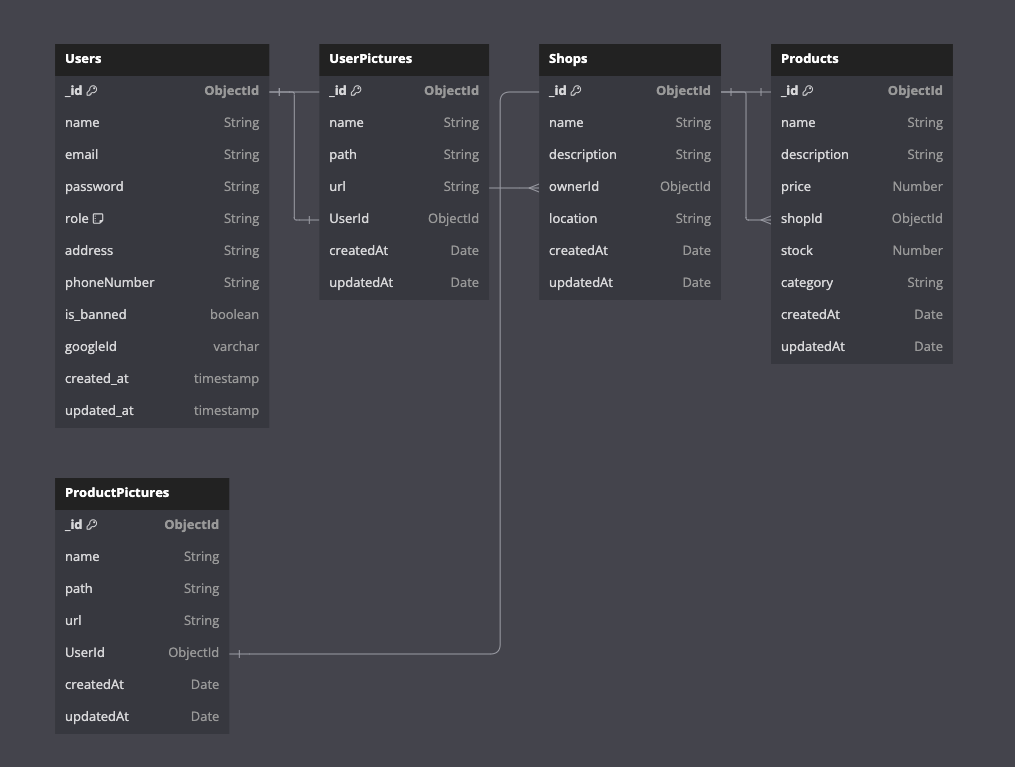
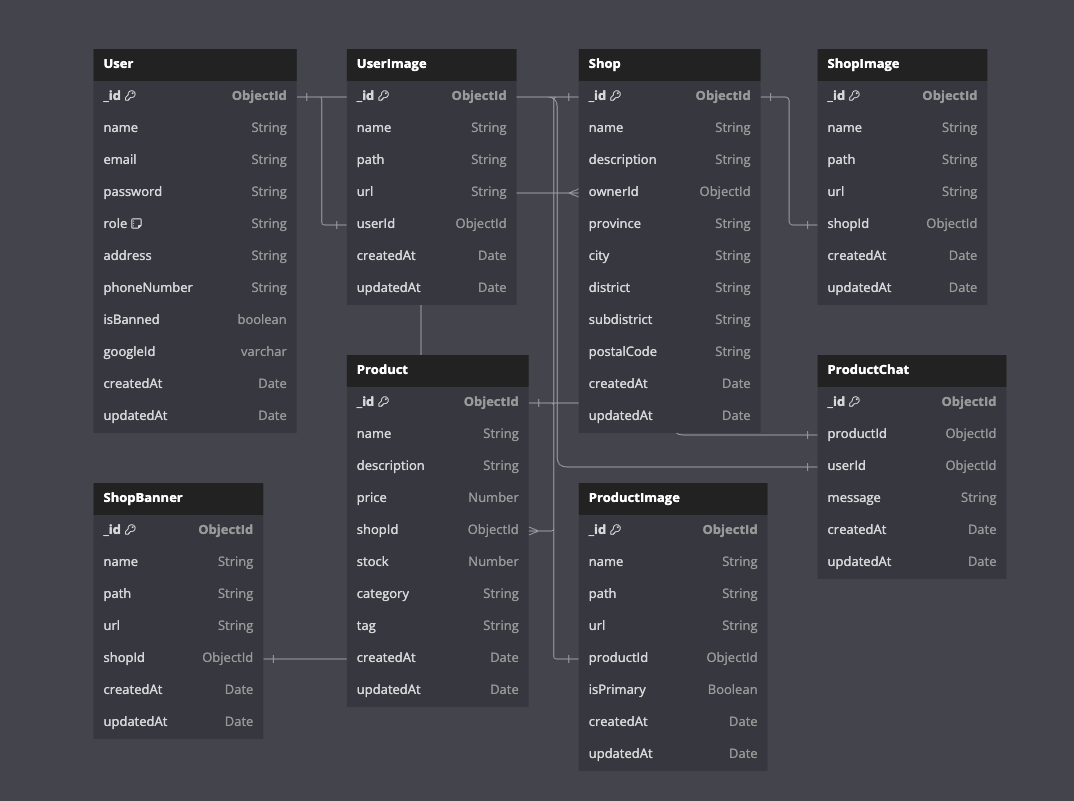
workaround and fix some bug

diff --git a/src/controllers/shop.js b/src/controllers/shop.js
@@ -15,11 +15,23 @@ export const createShop = async (req, res) => {
   }
 
   try {
-      const { name, description, location } = req.body;
+      const { name, description, province, city, district, subdistrict, postalCode } = req.body;
       const ownerId = req.user._id;
 
-      const shop = new Shop({ name, description, location, ownerId });
-      await shop.save();
+      const shop = new Shop({ 
+        name, 
+        description, 
+        ownerId,
+        address: {
+          province,
+          city,
+          district,
+          subdistrict,
+          postalCode
+        }
+      });
+
+      await shop.save();    
 
       res.status(201).json({ message: 'Shop created successfully', shop });
   } catch (err) {
@@ -34,7 +46,7 @@ export const updateShop = async (req, res) => {
   }
 
   const { shopId } = req.params;
-  const { name, description, location } = req.body;
+  const { name, description, province, city, district, subdistrict, postalCode } = req.body;
 
   try {
       const shop = await Shop.findById(shopId);
@@ -45,7 +57,12 @@ export const updateShop = async (req, res) => {
 
       shop.name = name || shop.name;
       shop.description = description || shop.description;
-      shop.location = location || shop.location;
+      shop.address.province = province || shop.address.province;
+      shop.address.city = city || shop.address.city;
+      shop.address.district = district || shop.address.district;
+      shop.address.subdistrict = subdistrict || shop.address.subdistrict;
+      shop.address.postalCode = postalCode || shop.address.postalCode;
+
       await shop.save();
 
       res.status(200).json({ message: 'Shop updated successfully', shop });

diff --git a/src/models/shop.js b/src/models/shop.js
@@ -4,7 +4,12 @@ const shopSchema = new mongoose.Schema({
     name: { type: String, required: true },
     description: { type: String },
     ownerId: { type: mongoose.Schema.Types.ObjectId, ref: 'User', required: true, unique: true },
-    location: { type: String },
+    address: {
+        province: { type: String, required: true },
+        city: { type: String, required: true },
+        district: { type: String, required: true },
+        subdistrict: { type: String, required: true }
+    },
     createdAt: { type: Date, default: Date.now },
     updatedAt: { type: Date, default: Date.now }
 });

diff --git a/src/server.js b/src/server.js
@@ -1,5 +1,4 @@
 import express from 'express';
-import mongoose from 'mongoose';
 import passport from 'passport';
 import session from 'express-session';
 import dotenv from 'dotenv';

diff --git a/README.md b/README.md
@@ -3,64 +3,10 @@
 
 Backed for pusatoleholeh Souvenir Marketplace Website written in JavaScript using Express.JS framework
 
-
-## Added Features
-
-- User registration as buyer
-- User registration as seller
-- User registration as admin*
-- User authentication using Email and Password
-- User authentication using Google Account (only as a buyer)
-- User profile update
-- Shop creation for user with seller role
-- Product creation to the owned shop
-- Product update
-- Product deletion
-- Global product search
-- Shop product search
-- ProductImages update
-- ProductImages deletion
-- Primary ProductImages set
-- Show random product by mumber
-
-
-## To be Added Features
-
-- cart 
-- TBA
-## API
-```
-POST    /auth/register
-POST    /auth/register/seller
-POST    /auth/register/admin
-POST    /auth/login
-GET     /google
-GET     /google/callback
-GET     /product/search?query=
-GET     /product/:shopId/search?query=
-GET     /product/:productId
-GET     /product
-GET     /product/:shopId
-POST    /product/:shopId
-PUT     /product/:productId
-DELETE  /product/:productId
-PUT    /product/:productId/images/:imagesIndex
-DELETE    /product/:productId/images/:imagesIndex
-PUT    /product/:productId/images/:imagesIndex/star
-GET     /product/random/:count
-POST    /shop/create
-GET     /profile
-PUT     /profile
-```
-
-## To be Added API
-
-TBA
 ## Full Documentation
 
 Full documentation can be accessed at
-[Documentation](https://wiki.anemona.cloud)
-
+[Documentation](https://wiki.anemona.site)
 
 ## Screenshots
 
